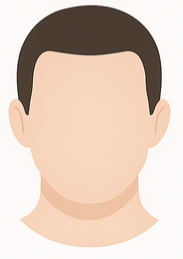
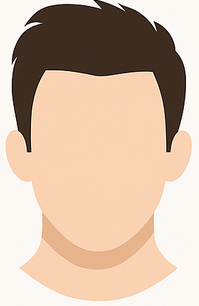
Adiciona nova imagem ao componente PhotoReview e atualiza a lógica de validação no serviço API para suportar o novo shape. Remove arquivos de imagem obsoletos e um arquivo de sessão do compilador Kotlin.

diff --git a/src/services/api.ts b/src/services/api.ts
@@ -20,6 +20,7 @@ const shapeAssets = {
   2: require("../assets/2_shape.png"),
   3: require("../assets/3_shape.png"),
   4: require("../assets/4_shape.png"),
+  5: require("../assets/5_shape.png"),
 };
 
 /**
@@ -33,9 +34,9 @@ export const simulateHairTransplant = async (
     const formData = new FormData();
 
     // Validação do shapeImage
-    if (!shapeImage || shapeImage < 1 || shapeImage > 4) {
+    if (!shapeImage || shapeImage < 1 || shapeImage > 5) {
       throw new Error(
-        `Shape ${shapeImage} inválido. Use um número entre 1 e 4.`
+        `Shape ${shapeImage} inválido. Use um número entre 1 e 5.`
       );
     }
 

diff --git a/src/app/photo-review.tsx b/src/app/photo-review.tsx
@@ -53,6 +53,7 @@ export default function PhotoReview() {
     { id: 2, image: require("../assets/2.png") },
     { id: 3, image: require("../assets/3.png") },
     { id: 4, image: require("../assets/4.png") },
+    { id: 5, image: require("../assets/5.png") },
   ];
 
   useEffect(() => {
